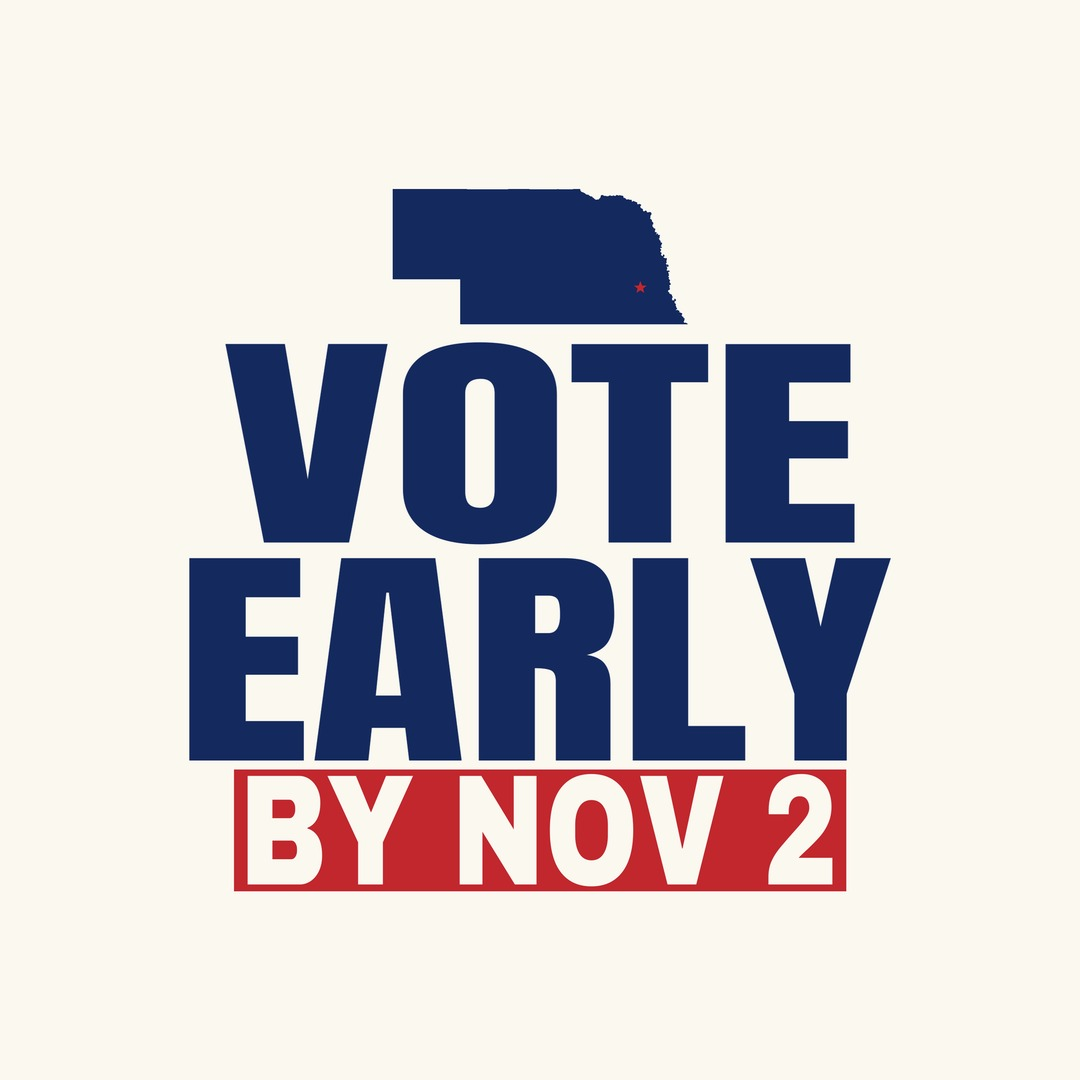
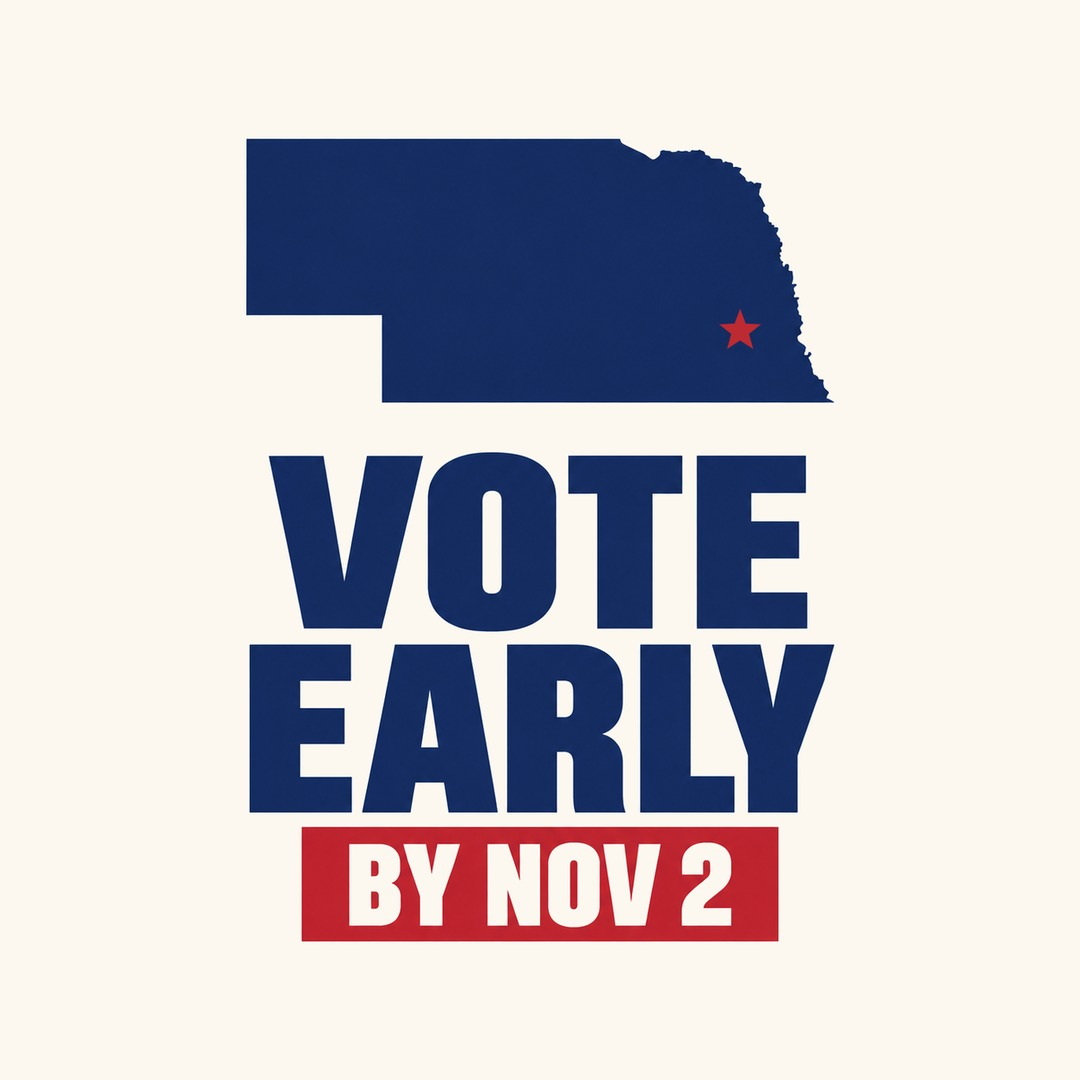
Nebraska: nine new ready-mades from Codex (stacked slab I left out, stray shape removed); retire the earlier set
Claude-Session: https://claude.ai/code/session_01U4jJBSt3CnGjJYrtPzNn5q

Changed region(s): [[0.1528, 0.1222, 0.825, 0.8861]]

diff --git a/site/index.php b/site/index.php
@@ -83,7 +83,7 @@ function vote_files( $abbr ) {
 
 // The state hero shows one standout ready-made, tilted (October 20, Garrett): the design named here,
 // or the first in the set. Numbers match <abbr>-vote-N.jpg.
-const VOTE_HERO = array( 'MS' => 5, 'MI' => 7, 'ID' => 7, 'NJ' => 5, 'OR' => 5, 'MN' => 6 );
+const VOTE_HERO = array( 'MS' => 5, 'MI' => 7, 'ID' => 7, 'NJ' => 5, 'OR' => 5, 'MN' => 6, 'NE' => 6 );
 function vote_hero_file( $abbr ) {
 	$n = VOTE_HERO[ $abbr ] ?? 0;
 	$k = strtolower( $abbr );
